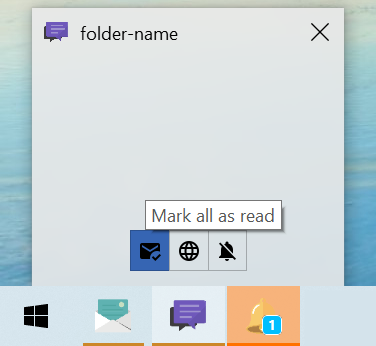
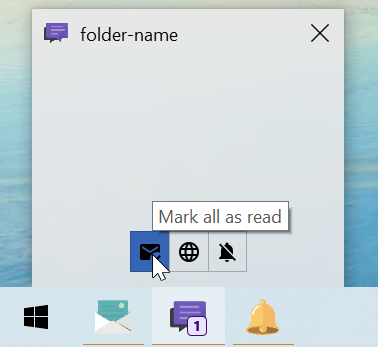
Update readme

diff --git a/README.md b/README.md
@@ -16,8 +16,8 @@ Unlike Outlook's default desktop notifications you won't miss unread emails even
 - Outlook desktop app needs to be installed
 
 ## Installation
-1. Download and extract the zip anywhere you like
-1. Edit `settings.ps1` (See [Settings](#Settings))
+1. Download and extract the zip or clone this repository anywhere you like
+1. Copy and edit `settings.ps1` (See [Settings](#Settings))
 1. Run [`tools/create_shortcut.bat`](#toolscreate_shortcutbat) and save the shortcut
 1. Run the shortcut
 
@@ -34,7 +34,7 @@ outlook = @{
 ```
 `folderPath` is a path of the outlook folder which the notifier monitors. You can list all your folder paths by running [`tools/list_outlook_folders.bat`](#toolslist_outlook_foldersbat).
 
-`exePath` is a path to Outlook exe. It is used in `FocusOnFolder` action.
+`exePath` is a path to Outlook exe. It is used by `FocusOnFolder` action. Check the path from your Outlook's shortcut property.
 
 ## Icon image
 
@@ -76,7 +76,7 @@ clickActions = @(
 )
 ```
 
-When the notifier is clicked, actions you specify here are executed sequentially.
+When the notifier is clicked, actions you specify here are executed sequentially. If an action fails, the subsequent actions will not be executed.
 
 ### Actions
 |Action Name|Description|When does it succeed?|
@@ -85,8 +85,8 @@ When the notifier is clicked, actions you specify here are executed sequentially
 |OpenNewestUnread|Opens the newest unread email.|When the mail is opened.|
 |OpenOldestUnread|Opens the oldest unread email.|When the mail is opened.|
 |MarkAllAsRead|Marks all emails in the folder as read.|Always.|
-|ToggleDoNotDisturb|Toggles Do Not Disturb mode. In Do Not Disturb mode, unread count update and icon flashing are paused.|Always.|
-|FocusOnApp|Focuses on the specified app window. The app name is a process name which you can check in the properties window from Task Manager. If the app is not found, subsequent actions will not be executed.|When the app exists.|
+|ToggleDoNotDisturb|Toggles [Do Not Disturb mode](#do-not-disturb-mode).|Always.|
+|FocusOnApp|Focuses on the specified app window. The app name is a process name which you can check in the properties window from Task Manager.|When the app exists.|
 |SendKeysToAppInFocus|Sends keyboard inputs to the app in focus. The key string format follows Windows.Forms.SendKeys format: https://docs.microsoft.com/en-us/dotnet/api/system.windows.forms.sendkeys?view=net-5.0|Always.|
 |SleepMilliseconds|Waits for specified milliseconds to tweak the timing for SendKeys.|Always.|
 |RunCommand|Runs any executable with arguments.|Always.|
@@ -140,6 +140,12 @@ thumbButtons = @(
 )
 ```
 You can add maximum 7 thumb buttons and define actions performed when they are clicked. The formats of `iconPath` and `clickActions` are the same as before.
+
+## Do Not Disturb mode
+
+![do_not_disturb](./docs/do_not_disturb.png)
+
+Do Not Disturb mode can be turned on by `ToggleDoNotDisturb` click action. In Do Not Disturb mode, unread count update and icon flashing are paused and it's indicated by `"D"` badge.
 
 # Tools
 
